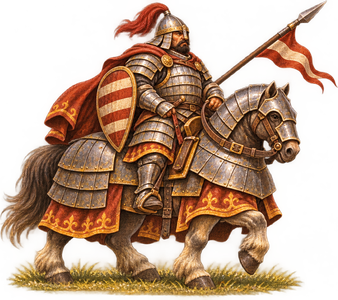
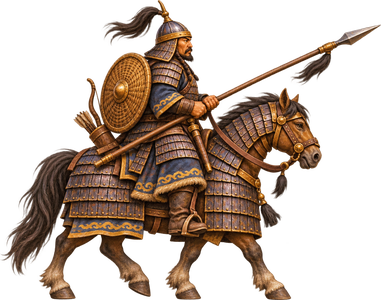
Sajó hídja: új háttér és tatár páncélos
Claude-Session: https://claude.ai/code/session_01TrxMZhgVc5kkxwtpbvR8se

diff --git a/e04.html b/e04.html
@@ -1977,10 +1977,10 @@ const MG_KIND = {
   futar: { name: 'Magyar futár', img: 'e04_mg_futar', v: 95, hp: 1, pts: 0, col: '#C9472F', w: 1.4, from: 6, friend: true }
 };
 const MG_PIC = {};
-function mgPic(name) { if (!(name in MG_PIC)) { const im = new Image(); im.onerror = () => { MG_PIC[name] = null; }; im.onload = () => { MG_PIC[name] = im; }; MG_PIC[name] = undefined; im.src = 'img/' + name + '.png?v=2611095'; } return MG_PIC[name] || null; }
+function mgPic(name) { if (!(name in MG_PIC)) { const im = new Image(); im.onerror = () => { MG_PIC[name] = null; }; im.onload = () => { MG_PIC[name] = im; }; MG_PIC[name] = undefined; im.src = 'img/' + name + (/\.\w+$/.test(name) ? '' : '.png') + '?v=2611095'; } return MG_PIC[name] || null; }
 function playMuhi() {
   if (!miniStart('muhi')) return;
-  Object.values(MG_KIND).forEach(k => mgPic(k.img)); mgPic('e04_mg_sajo_hid');
+  Object.values(MG_KIND).forEach(k => mgPic(k.img)); mgPic('e04_mg_sajo_hid.jpg');
   modal(`${X_BTN}<div class="inner"><span class="eyebrow">${tr('MUHI, 1241. ÁPRILIS')}</span><h2>${tr('Védd a Sajó hídját!')}</h2>
     <p>${tr('Koppints a tatár lovasokra, mielőtt átérnek. A páncélost háromszor kell eltalálni, a zászlóvivő lelassít mindenkit. A piros köpenyes futár a mieink közül való, őt ne bántsd, mert ha átér, hoz egy életet. Három lovas átjuthat, a negyediknél vége.')}</p>
     <div class="mg-legend">${Object.values(MG_KIND).map(k => `<span><img src="img/${k.img}.png?v=2611095" alt="" style="height:34px;width:auto" onerror="this.outerHTML='<i style=&quot;background:${k.col}&quot;></i>'">${tr(k.name)}</span>`).join('')}</div>
@@ -1991,10 +1991,11 @@ function playMuhi() {
   let Wc = 0, Hc = 0, run = false, t0 = 0, last = 0, spawnT = 0, score = 0, life = 3, combo = 0, best = 0, slowT = 0, riders = [], fx = [], raf = 0, ended = false, hits = 0, friends = 0;
   const fit = () => { const r = cv2.getBoundingClientRect(), dp = Math.min(2, devicePixelRatio || 1); Wc = r.width; Hc = r.height; cv2.width = Wc * dp; cv2.height = Hc * dp; g.setTransform(dp, 0, 0, dp, 0, 0); };
   fit();
-  const bTop = () => Hc * 0.2, bBot = () => Hc * 0.86, laneY = n => bTop() + (bBot() - bTop()) * (n + 0.62) / LANES, sz = () => Math.max(0.8, Math.min(1.35, Hc / 380)), laneH = () => (bBot() - bTop()) / LANES;
+  const BG = () => { const im = mgPic('e04_mg_sajo_hid.jpg'); if (!im) return null; const deck = Math.min(Hc * 0.52, Math.max(Wc * 0.42, Hc * 0.36)), sc = Math.max(deck / (0.355 * im.naturalHeight), Wc / im.naturalWidth, Hc / im.naturalHeight), w = im.naturalWidth * sc, h = im.naturalHeight * sc; return { im, x: Math.min(0, Wc > Hc * 1.2 ? Wc - w : Math.max(Wc - w, Wc * 0.94 - 0.9 * w)), y: Math.max(Hc - h, Math.min(0, Hc / 2 - 0.4775 * h)), w, h }; };
+  const bTop = () => { const b = BG(); return b ? b.y + b.h * 0.30 : Hc * 0.2; }, bBot = () => { const b = BG(); return b ? b.y + b.h * 0.655 : Hc * 0.86; }, endX = () => { const b = BG(); return b ? b.x + b.w * 0.9 : Wc - 40; }, laneY = n => bTop() + (bBot() - bTop()) * (n + 0.62) / LANES, sz = () => Math.max(0.8, Math.min(1.35, Hc / 380)), laneH = () => (bBot() - bTop()) / LANES;
   function scene() {
-    const bg = mgPic('e04_mg_sajo_hid');
-    if (bg) { const s = Math.max(Wc / bg.naturalWidth, Hc / bg.naturalHeight); g.drawImage(bg, (Wc - bg.naturalWidth * s) / 2, (Hc - bg.naturalHeight * s) / 2, bg.naturalWidth * s, bg.naturalHeight * s); return; }
+    const bg = BG();
+    if (bg) { g.drawImage(bg.im, bg.x, bg.y, bg.w, bg.h); return; }
     g.fillStyle = '#6F9A3E'; g.fillRect(0, 0, Wc, Hc);
     const wv = g.createLinearGradient(0, Hc * 0.1, 0, Hc * 0.96); wv.addColorStop(0, '#4E8FB5'); wv.addColorStop(1, '#2F6E93'); g.fillStyle = wv; g.fillRect(0, Hc * 0.1, Wc, Hc * 0.86);
     g.strokeStyle = 'rgba(255,255,255,.35)'; g.lineWidth = 2; const tt = performance.now() / 600;
@@ -2039,9 +2040,9 @@ function playMuhi() {
       spawnT -= dt; if (spawnT <= 0) { const kind = pickKind(el), k = MG_KIND[kind], lane = Math.floor(Math.random() * LANES); riders.push({ kind, x: -30, y: laneY(lane), lane, ty: laneY(lane), v: k.v * (1 + el / 55) * (0.85 + Math.random() * 0.3), ph: Math.random() * 6, hp: k.hp, zt: 1 + Math.random() }); spawnT = Math.max(0.36, 1.15 - el * 0.018) * (0.7 + Math.random() * 0.6); }
       riders.forEach(r => {
         if (r.fall) { r.fall += dt * 2; r.y += dt * 90; return; }
-        const k = MG_KIND[r.kind]; r.x += r.v * dt * (k.friend ? 1 : slow); r.ph += dt * 12;
+        const k = MG_KIND[r.kind]; r.x += r.v * dt * (k.friend ? 1 : slow) * Math.max(0.45, Math.min(1.15, (endX() + 30) / 760)); r.ph += dt * 12;
         if (k.zig) { r.zt -= dt; if (r.zt <= 0) { r.lane = Math.max(0, Math.min(LANES - 1, r.lane + (Math.random() < 0.5 ? -1 : 1))); r.ty = laneY(r.lane); r.zt = 0.8 + Math.random(); } r.y += (r.ty - r.y) * Math.min(1, dt * 5); }
-        if (r.x > Wc - 40) { r.gone = true; if (k.friend) { friends++; if (life < 3) life++; score += 20; fx.push({ x: Wc - 70, y: r.y - 34, t: 0, txt: tr('Hírt hozott! +1 élet'), c: '#CFE5B4' }); } else { life--; combo = 0; fx.push({ x: Wc - 60, y: r.y - 34, t: 0, txt: tr('Átjutott!'), c: '#FF8A6E' }); } }
+        if (r.x > endX()) { r.gone = true; if (k.friend) { friends++; if (life < 3) life++; score += 20; fx.push({ x: endX() - 30, y: r.y - 34, t: 0, txt: tr('Hírt hozott! +1 élet'), c: '#CFE5B4' }); } else { life--; combo = 0; fx.push({ x: endX() - 20, y: r.y - 34, t: 0, txt: tr('Átjutott!'), c: '#FF8A6E' }); } }
       });
       riders = riders.filter(r => !r.gone && !(r.fall && r.fall > 1.4));
       $('mgTime').textContent = Math.ceil(left); $('mgLife').textContent = '❤'.repeat(Math.max(0, life)) + '♡'.repeat(Math.max(0, 3 - life)); $('mgScore').textContent = score + ' ' + tr('pont'); $('mgCombo').textContent = combo >= 3 ? trf('{0}x sorozat', combo) : '';
